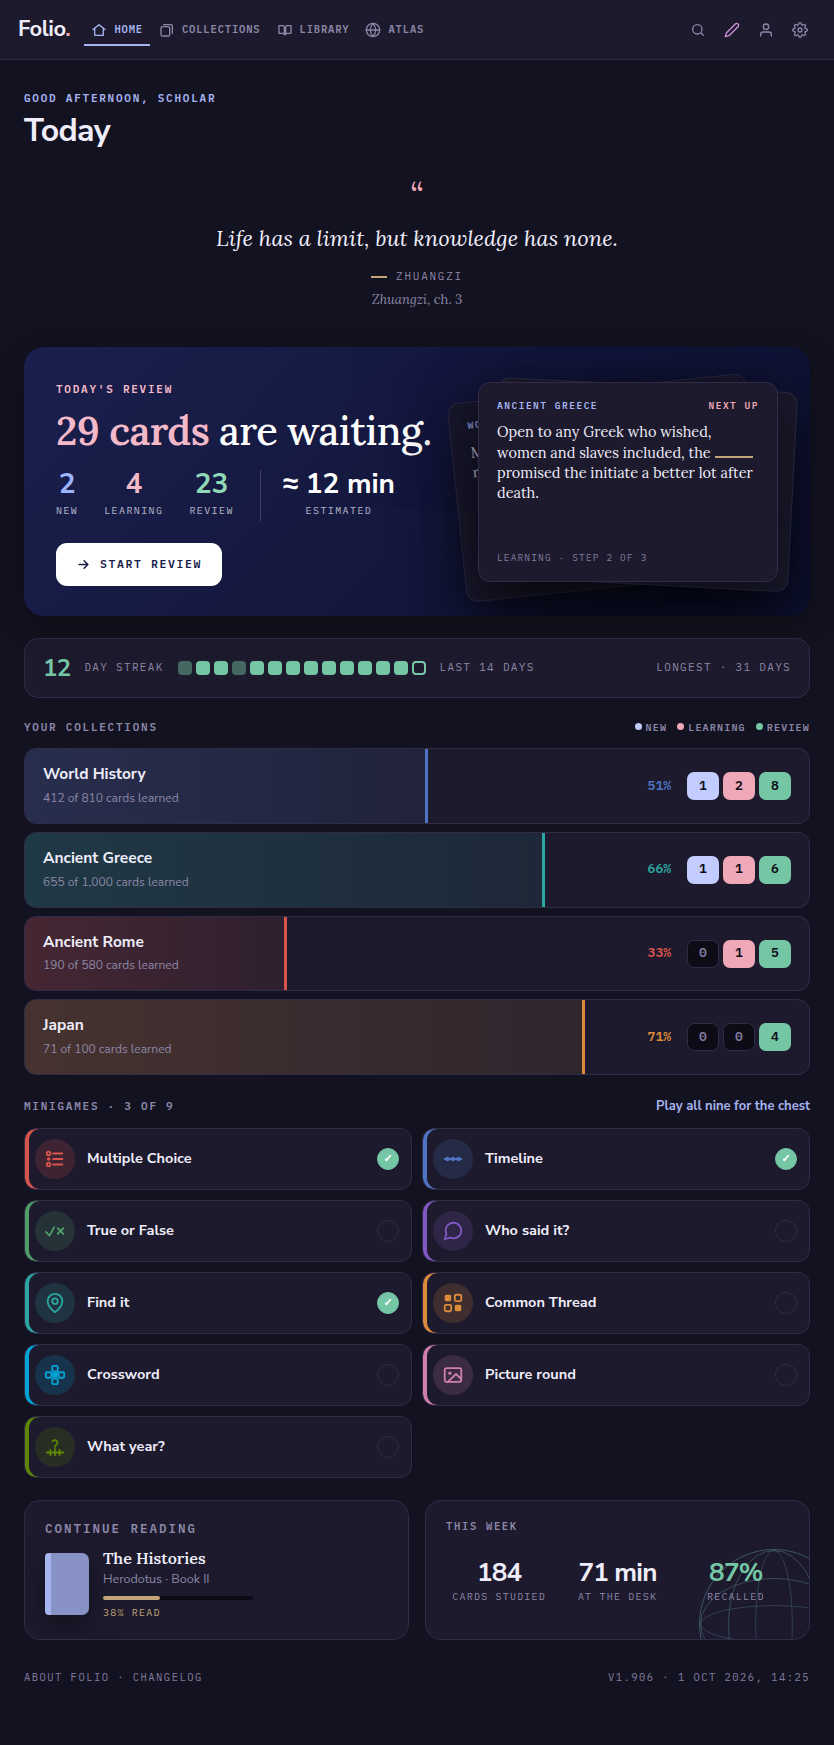
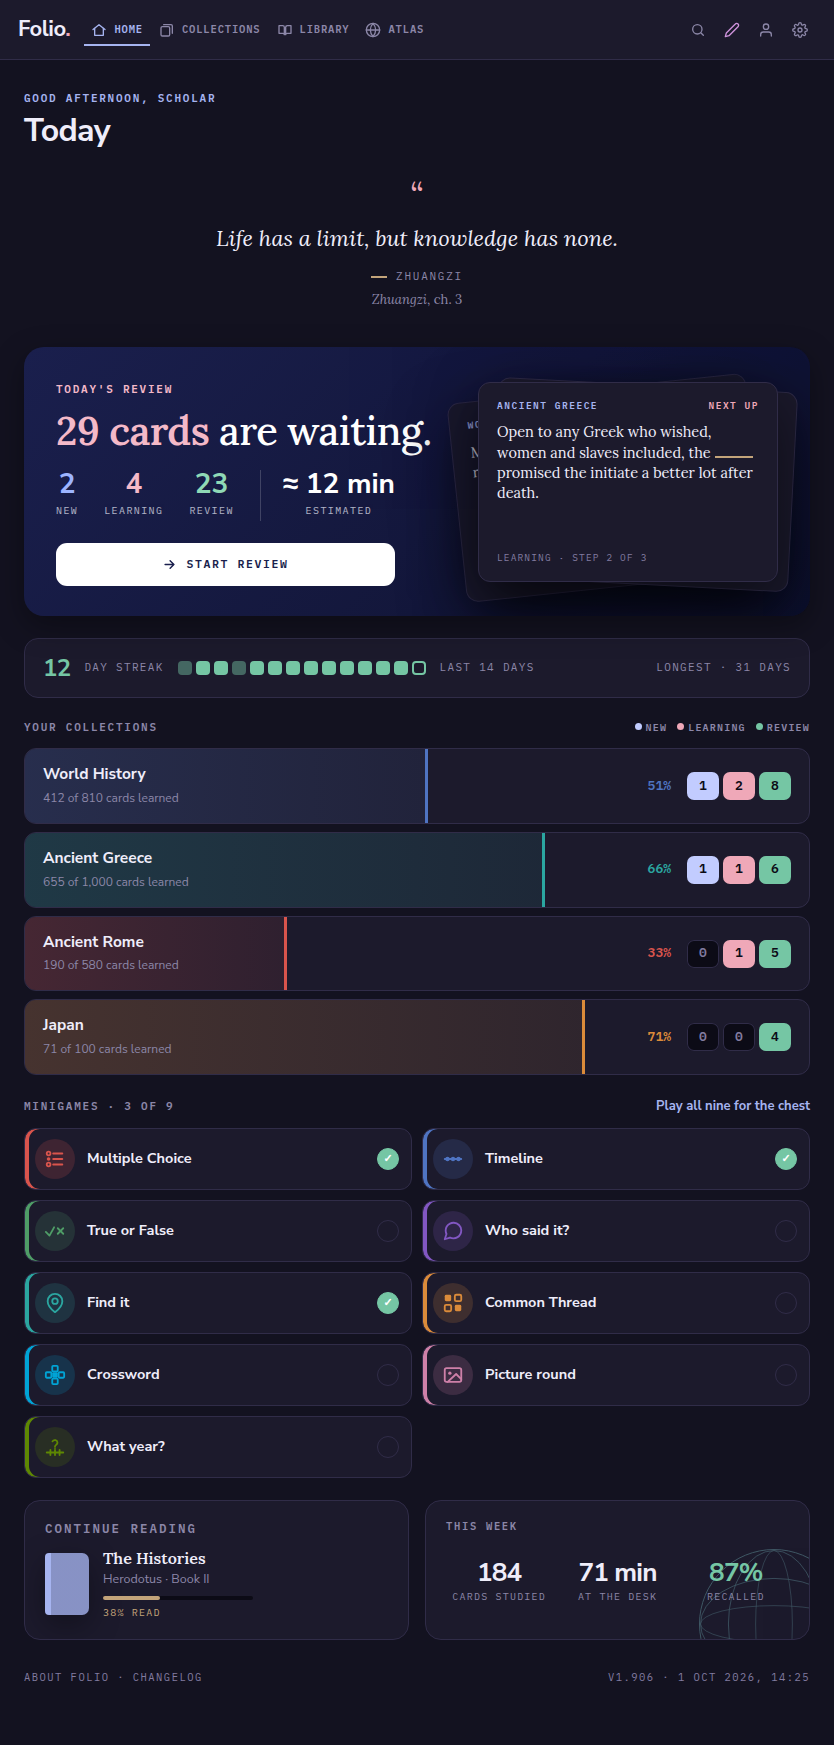
Composed home page: the Start button spans the pile row's width
Claude-Session: https://claude.ai/code/session_01FZqnjJL9hSmvynj3x2xjzS

Changed region(s): [[0.1871, 0.3095, 0.4988, 0.3404]]

diff --git a/docs/mockups/home-redesigns/final/build.js b/docs/mockups/home-redesigns/final/build.js
@@ -15,12 +15,15 @@ const helpers4 = R4.slice(R4.indexOf("const GAMES = ["), R4.indexOf("const page 
 const P = new Function("G", "fs", "path", "__dirname", helpers2 + helpers2b + helpers2c + helpers2d + "\n" + helpers4 +
   "\nreturn {I, topbar, tabbar, phoneHead, readingBox, foot, GAMES, DECKS, pct, boxes, legend, quote, globeDeco, banner, ribbon, PARTS};")(G, fs, path, path.join(__dirname, "..", "round-4"));
 
+const bannerStacked = () => P.banner().replace(/(<div class="pile">[\s\S]*?<\/div>)\s*(<a class="go"[\s\S]*?<\/a>)/, '<div class="stack">$1$2</div>');
 const greet = () => `<div class="greet"><span class="eyebrow">Good afternoon, Scholar</span><h1>Today</h1></div>`;
 const thisWeek = () => `<section class="box week"><span class="k">This week</span><div class="stats"><div><b>184</b><span>cards studied</span></div><div><b>71 min</b><span>at the desk</span></div><div class="g"><b>87%</b><span>recalled</span></div></div>${P.globeDeco().replace('class="gdeco "','class="gdeco" style="right:-40px;bottom:-60px;width:150px;height:150px"')}</section>`;
 
 const CSS = `
 /* the pile's figures sit centred over their labels */
 .study .pile div{text-align:center;} .study .pile .t{text-align:center;}
+/* the pile and the button share one width: a stack as wide as the figures, and the button fills it */
+.study .stack{display:inline-flex; flex-direction:column; align-items:stretch; width:max-content; max-width:100%;} .study .stack .pile{margin-bottom:22px;} .study .stack .go{justify-content:center;}
 .wrap{max-width:1040px; margin:0 auto; padding:26px 24px 60px;}
 .gap{height:22px;}
 /* Keys' active decks: the row's own fill is the share of the collection learned */
@@ -66,7 +69,7 @@ ${P.topbar()}
   ${P.phoneHead()}
   ${greet()}
   ${P.quote()}
-  ${P.banner()}
+  ${bannerStacked()}
   <div class="gap"></div>
   ${P.ribbon()}
   <div class="gap"></div>

diff --git a/docs/mockups/home-redesigns/final/home-composed.html b/docs/mockups/home-redesigns/final/home-composed.html
@@ -95,6 +95,8 @@
 
 /* the pile's figures sit centred over their labels */
 .study .pile div{text-align:center;} .study .pile .t{text-align:center;}
+/* the pile and the button share one width: a stack as wide as the figures, and the button fills it */
+.study .stack{display:inline-flex; flex-direction:column; align-items:stretch; width:max-content; max-width:100%;} .study .stack .pile{margin-bottom:22px;} .study .stack .go{justify-content:center;}
 .wrap{max-width:1040px; margin:0 auto; padding:26px 24px 60px;}
 .gap{height:22px;}
 /* Keys' active decks: the row's own fill is the share of the collection learned */
@@ -132,8 +134,7 @@
   <div class="study-body">
     <span class="eyebrow">Today's review</span>
     <h2><b>29 cards</b> are waiting.</h2>
-    <div class="pile"><div class="n"><b>2</b><span>New</span></div><div class="l"><b>4</b><span>Learning</span></div><div class="r"><b>23</b><span>Review</span></div><div class="t"><b>≈ 12 min</b><span>Estimated</span></div></div>
-    <a class="go" href="#review"><svg viewBox="0 0 24 24"><path d="M5 12h14M13 6l6 6-6 6"/></svg>Start review</a>
+    <div class="stack"><div class="pile"><div class="n"><b>2</b><span>New</span></div><div class="l"><b>4</b><span>Learning</span></div><div class="r"><b>23</b><span>Review</span></div><div class="t"><b>≈ 12 min</b><span>Estimated</span></div></div><a class="go" href="#review"><svg viewBox="0 0 24 24"><path d="M5 12h14M13 6l6 6-6 6"/></svg>Start review</a></div>
   </div>
   <div class="preview in-banner">
   <div class="pc c3"><span class="eb">World History</span><p>Muʿāwiya founded <u></u> in 661 and ruled it from Damascus…</p></div>
